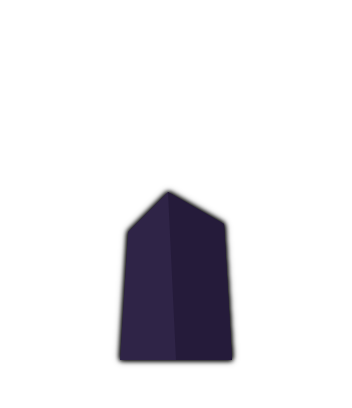
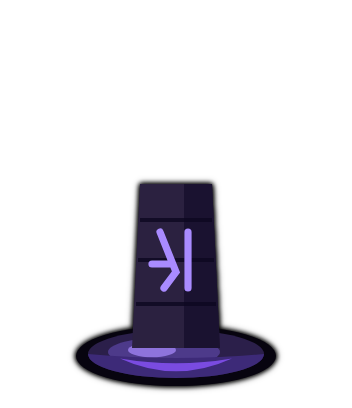
Schatten: Schattenturm, Seelenfresser-Silhouette, Phantom, Schattendrache (26w)
Claude-Session: https://claude.ai/code/session_012Nsno37nEjc4wateER8C5H

Changed region(s): [[0.1875, 0.4412, 0.8125, 0.9706]]

diff --git a/index.html b/index.html
@@ -222,7 +222,7 @@ const FIREBASE_CONFIG = {
   appId: "1:45840879921:web:f4f4f8bb60e49a091ae010"
 };
 const GAME_ID = "spiel1";   // anderer Name = eigenes, getrenntes Spiel
-const VERSION = "2026-10-26v";  // bei JEDER Änderung hochzählen: alte Handys merken so, dass sie neu laden müssen
+const VERSION = "2026-10-26w";  // bei JEDER Änderung hochzählen: alte Handys merken so, dass sie neu laden müssen
 
 /* =====================================================================
    SPIELDATEN – Regeln und Zahlen. Alles hier darf geändert werden.
@@ -347,11 +347,11 @@ const ELEMENTS = [
     ['Irrlicht',     'Licht',     // 30 statt 45 Gold (12.10.: Schatten nachts sonst zu schwach)
                           1.8, 1,   1, 0,   0,   0, 0, {light:2.2, buff:[1.3, 1.4, 1.5, 1.6, 1.7, 1.8], pierce:[0.3, 0.45, 0.6, 0.75, 0.9, 1]}],   // schießt nicht. Monster im Lichtkreis nehmen von Schatten-Türmen ×buff Schaden, pierce ihrer Rüstung zählt nicht (12.10. 14:07; seit 26.10. auf die Monster statt auf Türme im Kreis)
     ['Nachtauge',    'Reichweite',3.8, 0.6, 1, 1.01, 0.15, 5],
-    ['Fluchstein',   'Effekt',    2.5, 0.7, 3, 0.3, 0.3, 12, 0, {fly:false}],
+    ['Schattenturm',  'Effekt',    2.5, 0.7, 3, 0.3, 0.3, 12, 0, {fly:false}],
     ['Seelenfresser','Schaden',   2.0, 0.8, 2, 1.4, 0.1, 5],
     ['Phantom',      'Reichweite',3.2, 1.5, 4, 1.0, 0.2, 8],
     ['Leerenturm',   'Schaden',   3.0, 0.8, 3, 1.3, 0.25, 10],
-    ['Ewige Nacht',  'Effekt',    3.5, 0.5, 6, 0.4, 0.5, DAY] ]},
+    ['Schattendrache','Effekt',    3.5, 0.5, 6, 0.4, 0.5, DAY] ]},
   { name:'Stein', emo:'🪨', color:'#c2a878', note:'Fläche · wetterfest · kein Geländeaufschlag · Fliegende nur Turm 3, 6, 8', kraft:2.256, kraftBlock:[0.3, 0.6, 1, 1, 1, 1, 1, 1], kraftT:[1.58, 1.0, 1.3, 1.3, 1, 1, 1, 1], costOverride:{}, uniq:[0, 1, 3, 2, 4, 5, 6, 7], effect:'stun', armorDmg:1.5, noFly:true, lobSpeed:4.5, splashCenter:1.2, splashEdge:0.8, weatherproof:true, terrainFree:true, towers:[   // 17.10. (L): Katapult (Luft) ist Turm 3, Felsbrocken Turm 4; die Fähigkeiten bleiben beim Turm (uniq)
     ['Kiesel',       'Fläche',    2.0, 0.33,1, 0.55, 0,   0, 0.7],
     ['Schleuder',    'Fläche',    2.5, 0.33,2, 0.89, 0,   0, 0.9],
@@ -1895,14 +1895,14 @@ function drawTower(c, tw, px, py, cs, aim, glow, noBody){
 }
 const TIMG = {};   // 26.10. (F): freistehende Turm-Bilder der Schräg-Ansicht, assets/turm/<element>-<nr>.png (88×102-Raster, Fußpunkt bei y=92), Entwürfe/Quelle: team/GRAFIK.md
 const TOWER_NAME = ['feuer', 'eis', 'schatten', 'stein'];
-const TOWER_H = { feuer:[22,42,26,34,52,69.5,52,42], eis:[26,34.5,66.4,62,39.9,58.2,48,62], schatten:[26,44,39,44,26.6,49,48,60], stein:[48,30,58,62,22,70,33,88] };   // Höhe der Zeichnung über dem Fuß (Raster-Einheiten)
+const TOWER_H = { feuer:[22,42,26,34,52,69.5,52,42], eis:[26,34.5,66.4,62,39.9,58.2,48,62], schatten:[26,44,39,69.5,26.6,49,48,62], stein:[48,30,58,62,22,70,33,88] };   // Höhe der Zeichnung über dem Fuß (Raster-Einheiten)
 function loadImg(k){   // bei Ladefehler bis zu 3 Wiederholungen (Handy-Netz)
   if (k in TIMG) return TIMG[k] && TIMG[k].complete && TIMG[k].naturalWidth ? TIMG[k] : null;
   const im = new Image(); im.onerror = () => { TIMG[k] = null; loadImg.n[k] = (loadImg.n[k] || 0) + 1; if (loadImg.n[k] < 4) setTimeout(() => { delete TIMG[k]; loadImg(k); }, 1500*loadImg.n[k]); }; im.onload = () => { if (!view25 || typeof drawAll !== 'function') return; drawAll(); clearTimeout(towerImg.t); towerImg.t = setTimeout(() => { if (G && typeof render === 'function') render(); }, 80); }; im.src = 'assets/turm/' + k + '.png'; TIMG[k] = im; return null;
 }
 loadImg.n = {};
 // 26i (F): bewegliche Teile. Jeder Turm hat ein Grundbild (assets/turm/<element>-<nr>.png) und PARTN Teilbilder (…-<nr>p<id>.png, gleiches Raster), die einzeln um einen Drehpunkt bewegt werden
-const PARTN = { feuer:[1,1,2,2,2,2,1,1], eis:[1,1,1,1,1,1,1,2], schatten:[1,1,2,1,2,1,3,2], stein:[1,2,1,1,2,2,2,3] };
+const PARTN = { feuer:[1,1,2,2,2,2,1,1], eis:[1,1,1,1,1,1,1,2], schatten:[1,1,2,2,2,1,3,2], stein:[1,2,1,1,2,2,2,3] };
 function towerImg(el, idx){
   const nmE = TOWER_NAME[el], n = nmE + '-' + (idx + 1), b = loadImg(n), cnt = PARTN[nmE][idx], ps = [];
   let wait = false;
@@ -1937,11 +1937,12 @@ const PARTS = (() => {
     schatten0: [[0, -4, (t, g, w, dx) => ({ y: -1.5*S(t*2.5) - 2*w, sy: 1 + .03*S(t*2.5), x: dx*3*w })]],
     schatten1: [[0, -22, (t, g) => sc(1 + .1*S(t*3) + .1*g)]],
     schatten2: [[0, -30, (t) => ({ sy: S(t*.9) > .985 ? .15 : 1 })], [0, -30, (t, g, w, dx, dy) => ({ x: dx*3, y: dy*2, ...sc(1 + .2*g) })]],
-    schatten3: [[0, -20, (t, g) => ({ ...sc(1 + .06*S(t*4) + .15*g), a: Math.min(1, .75 + .25*S(t*4) + .25*g) })]],
+    schatten3: [[0, -48, (t, g) => ({ ...sc(1 + .03*S(t*4) + .08*g), a: Math.min(1, .8 + .2*S(t*4) + .2*g) })], [0, -62, (t, g) => ({ y: -2*S(t*2) - 3*g, a: Math.min(1, .6 + .4*S(t*3) + .4*g) })]],
     schatten4: [[-16, -4, (t, g, w) => ({ r: -.4*w })], [0, -4, (t, g, w) => ({ y: 3*w })]],
     schatten5: [[0, -4, (t, g, w) => ({ y: -2*S(t*2) - 4*w, sy: 1 + .04*S(t*2) + .1*w })]],
     schatten6: [[0, -34, (t, g) => sc(1 + .05*S(t*3) + .3*g)], [0, -34, (t, g) => sc(1 + .04*S(t*5) + .15*g)], [0, -34, (t, g) => sc(1 + .05*S(t*3) + .3*g)]],
-    schatten7: [[0, -40, (t) => ({ y: -1.5*S(t*1.5), r: .04*S(t) })], [0, -40, (t, g) => ({ r: t*.15, a: Math.min(1, .55 + .45*S(t*4) + .5*g) })]],
+    schatten7: [[6, -24, (t, g, w, dx, dy) => ({ r: Math.max(-.6, Math.min(.6, Math.atan2(dy, Math.abs(dx))))*.8 + .04*S(t*1.6) - .18*w })],
+            [-2, -27, (t, g, w) => ({ r: .1*S(t*2.4) - .4*w })]],
     stein0: [[.6, -45, (t) => ({ sx: 1 + .25*S(t*6), r: .05*S(t*4 + 1) })]],
     stein1: [[0, -30, (t, g) => ({ sy: 1 + .5*g })], [0, -22, (t, g) => ({ a: 1 - Math.min(1, g*1.6), y: 5*g })]],
     stein2: [[0, -34, (t, g, w) => ({ r: .85*w })]],
@@ -1957,13 +1958,13 @@ function drawFlame(c, mx, my, hx, hy, cs, now, a, ice){   // 26o (F): Flamme von
   const ang = Math.atan2(hy - my, hx - mx), len = Math.hypot(hx - mx, hy - my); if (len < 3) return;
   c.save(); c.globalAlpha = a; c.translate(mx, my); c.rotate(ang);
   const N = 16, wob = (t, ph) => Math.sin(t*9 - now*34 + ph) * (.03 + .1*t) * cs;
-  (ice ? [['#2f86b3', 1, 0], ['#79c6ee', .62, 1.7], ['#eaf8ff', .3, 3.1]] : [['#d8321a', 1, 0], ['#ff8a3d', .62, 1.7], ['#ffe08a', .3, 3.1]]).forEach(([col, wk, ph], j) => {
+  (ice === 'sch' ? [['#6a3fd0', 1, 0], ['#241540', .72, 1.7], ['#07040f', .42, 3.1]] : ice ? [['#2f86b3', 1, 0], ['#79c6ee', .62, 1.7], ['#eaf8ff', .3, 3.1]] : [['#d8321a', 1, 0], ['#ff8a3d', .62, 1.7], ['#ffe08a', .3, 3.1]]).forEach(([col, wk, ph], j) => {
     const L = len * (j === 2 ? .8 : 1), top = [], bot = [];
     for (let k = 0; k <= N; k++) { const t = k / N, w = cs * (.05 + .17*Math.pow(t, .75)) * wk * (1 + .12*Math.sin(now*40 + k*1.3 + j)) * (k === N ? .25 : 1), y0 = wob(t, ph);
       top.push([t*L, y0 - w]); bot.push([t*L, y0 + w]); }
     c.fillStyle = col; c.beginPath(); c.moveTo(top[0][0], top[0][1]); top.forEach(q => c.lineTo(q[0], q[1])); for (let k = N; k >= 0; k--) c.lineTo(bot[k][0], bot[k][1]); c.closePath(); c.fill(); });
-  for (let k = 0; k < 7; k++) { const t = ((now*2.6 + k/7) % 1), y0 = wob(t, 1) + Math.sin(k*5.1) * cs*.12*t; c.fillStyle = ice ? (k % 2 ? '#ffffff' : '#bfeaff') : (k % 2 ? '#ffe08a' : '#ff8a3d'); c.beginPath(); c.arc(t*len, y0, cs*(.035 + .02*Math.sin(k*3 + now*20)), 0, 7); c.fill(); }
-  const gr = c.createRadialGradient(len, 0, 0, len, 0, cs*.42); if (ice) { gr.addColorStop(0, '#ffffffee'); gr.addColorStop(.45, '#79c6ee99'); gr.addColorStop(1, '#79c6ee00'); } else { gr.addColorStop(0, '#ffe08af0'); gr.addColorStop(.45, '#ff8a3d99'); gr.addColorStop(1, '#ff8a3d00'); }
+  for (let k = 0; k < 7; k++) { const t = ((now*2.6 + k/7) % 1), y0 = wob(t, 1) + Math.sin(k*5.1) * cs*.12*t; c.fillStyle = ice === 'sch' ? (k % 2 ? '#e9dcff' : '#a35bff') : ice ? (k % 2 ? '#ffffff' : '#bfeaff') : (k % 2 ? '#ffe08a' : '#ff8a3d'); c.beginPath(); c.arc(t*len, y0, cs*(.035 + .02*Math.sin(k*3 + now*20)), 0, 7); c.fill(); }
+  const gr = c.createRadialGradient(len, 0, 0, len, 0, cs*.42); if (ice === 'sch') { gr.addColorStop(0, '#07040fee'); gr.addColorStop(.45, '#7a4be0aa'); gr.addColorStop(1, '#7a4be000'); } else if (ice) { gr.addColorStop(0, '#ffffffee'); gr.addColorStop(.45, '#79c6ee99'); gr.addColorStop(1, '#79c6ee00'); } else { gr.addColorStop(0, '#ffe08af0'); gr.addColorStop(.45, '#ff8a3d99'); gr.addColorStop(1, '#ff8a3d00'); }
   c.fillStyle = gr; c.beginPath(); c.arc(len, 0, cs*(.38 + .05*Math.sin(now*45)), 0, 7); c.fill();
   c.restore();
 }
@@ -1988,7 +1989,7 @@ function drawTower25(c, tw, x, y, cs, aim, glow){
     else if (nm === 'schatten0' || nm === 'schatten5') { sx = sy = 1; ox = oy = 0; }   // Schemen/Phantom: bewegt sich als Teilbild
     else if (nm === 'schatten1') { ox = 0; oy = Math.sin(now*3 + tw.x) * cs*.05 - cs*.05; sx = sy = 1; }   // Irrlicht schwebt
     else if (nm === 'feuer2' || nm === 'feuer3') { ox = -dx*cs*.07*g; }
-    const flip = (nm === 'feuer1' && Math.cos(aim) > 0) || (nm === 'feuer2' && Math.cos(aim) < 0) || (nm === 'feuer3' && Math.cos(aim) < 0) || (nm === 'feuer4' && Math.cos(aim) > 0) || ((nm === 'eis3' || nm === 'eis7') && Math.cos(aim) < 0);   // Glumanda blickt nach links, Flammenwerfer-Mündung nach rechts   // Glumanda blickt nach links und dreht sich zum Ziel: Schuss kommt aus dem Maul
+    const flip = (nm === 'feuer1' && Math.cos(aim) > 0) || (nm === 'feuer2' && Math.cos(aim) < 0) || (nm === 'feuer3' && Math.cos(aim) < 0) || (nm === 'feuer4' && Math.cos(aim) > 0) || ((nm === 'eis3' || nm === 'eis7' || nm === 'schatten7') && Math.cos(aim) < 0);   // Glumanda blickt nach links, Flammenwerfer-Mündung nach rechts   // Glumanda blickt nach links und dreht sich zum Ziel: Schuss kommt aus dem Maul
     c.save(); c.translate(fx + ox, fy + oy); c.rotate(rotA); c.scale(flip ? -sx : sx, sy);
     c.drawImage(sp, -44*u, -92*u, 88*u, 102*u);
     const gp = Math.max(0, 1 - (now - (FIRE_T[key] === undefined ? -9 : FIRE_T[key])) / .5), wp = gp > 0 ? Math.sin(Math.PI * (1 - gp)) : 0, pd = PARTS[nm];   // bewegliche Teile
@@ -2000,8 +2001,8 @@ function drawTower25(c, tw, x, y, cs, aim, glow){
       c.drawImage(sp.parts[i], -44*u - px, -92*u - py, 88*u, 102*u); c.restore();
     }
     c.restore();
-    if (nm === 'feuer2' || nm === 'eis7') { const j = JETS[tw.el + ':' + (tw.x + .5) + ',' + (tw.y + .5)], mxo = nm === 'eis7' ? 27 : 17, myo = nm === 'eis7' ? 42 : 12;   // Flamme / Eisfeuer: von der Mündung zum Ziel, solange der Turm schießt
-      if (j && j.t <= now + .05 && now - j.t < .28) drawFlame(c, fx + (Math.cos(aim) > 0 ? 1 : -1)*mxo*u, fy - myo*u, j.tx*cs, gyOf(j.ty, cs) - cs*.25, cs, now, Math.min(1, (.28 - (now - j.t)) / .12), nm === 'eis7'); }
+    if (nm === 'feuer2' || nm === 'eis7' || nm === 'schatten7') { const j = JETS[tw.el + ':' + (tw.x + .5) + ',' + (tw.y + .5)], mxo = nm === 'feuer2' ? 17 : 27, myo = nm === 'feuer2' ? 12 : 42;   // Flamme / Eisfeuer: von der Mündung zum Ziel, solange der Turm schießt
+      if (j && j.t <= now + .05 && now - j.t < .28) drawFlame(c, fx + (Math.cos(aim) > 0 ? 1 : -1)*mxo*u, fy - myo*u, j.tx*cs, gyOf(j.ty, cs) - cs*.25, cs, now, Math.min(1, (.28 - (now - j.t)) / .12), nm === 'eis7' ? true : nm === 'schatten7' ? 'sch' : false); }
     if (g > 0 && glow !== undefined) {                                              // Mündungseffekt in Elementfarbe (am Turm, in Zielrichtung)
       const mx = fx + dx*cs*.32, my = fy - hh*.55 + dy*cs*.2, col = ELEMENTS[tw.el].color;
       const fl = (r, cc) => { const gr = c.createRadialGradient(mx, my, 0, mx, my, r); gr.addColorStop(0, cc + 'dd'); gr.addColorStop(1, cc + '00'); c.fillStyle = gr; c.beginPath(); c.arc(mx, my, r, 0, 7); c.fill(); };
@@ -2119,9 +2120,12 @@ function shot25(c, p, x, y, a, cs, time){
     if (i === 2) { tail(q*10, '#a98bffaa', q*1.4); ball(q*2.2, '#f0e6ff', '#ffffff', '#a98bff'); return true; }
     if (i === 3) { c.save(); c.translate(x, y); c.rotate(w*.2); c.fillStyle = '#2f2447'; c.fillRect(-q*2.4, -q*2.4, q*4.8, q*4.8); c.strokeStyle = '#a98bff'; c.lineWidth = q*.9; c.beginPath(); c.moveTo(-q*1, -q*1.6); c.lineTo(q*.6, 0); c.lineTo(-q*1, 1.6*q); c.stroke(); c.restore(); return true; }
     if (i === 4) { ball(q*2.8, '#2a2a16', '#9be36b', '#7ad94a'); c.fillStyle = '#f0e6ff'; c.fillRect(x - q*1.4, y - q*.5, q*.9, q*1); c.fillRect(x + q*.5, y - q*.5, q*.9, q*1); return true; }
-    if (i === 5) { c.globalAlpha = .85; ball(q*3, '#cdbfff', '#ffffff', '#a98bff'); c.globalAlpha = 1; tail(q*7, '#cdbfff55', q*3.4); return true; }
+    if (i === 5) { c.save(); c.translate(x, y); c.rotate(Math.cos(a) < 0 ? a + Math.PI : a); if (Math.cos(a) < 0) c.scale(1, -1);   // kleines schwarzes Phantom mit wehendem Schweif
+      c.fillStyle = '#7a4be055'; c.beginPath(); c.arc(0, 0, q*4.2, 0, 7); c.fill();
+      c.fillStyle = '#0d0820'; c.strokeStyle = '#a98bff'; c.lineWidth = q*.6; c.beginPath(); c.moveTo(q*3.4, 0); c.quadraticCurveTo(q*3.4, -q*3.2, 0, -q*3.2); c.quadraticCurveTo(-q*2, -q*3, -q*3.6, -q*1.2 + Math.sin(w)*q*.8); c.quadraticCurveTo(-q*5.2, q*.6, -q*7.2, q*1.6 + Math.sin(w + 1)*q*1.2); c.quadraticCurveTo(-q*4.2, q*1.8, -q*3.2, q*2.6); c.quadraticCurveTo(-q*1.6, q*3.4, 0, q*2.6); c.quadraticCurveTo(q*3.4, q*3.2, q*3.4, 0); c.closePath(); c.fill(); c.stroke();
+      c.fillStyle = '#f0e6ff'; c.beginPath(); c.arc(q*1.4, -q*.9, q*.8, 0, 7); c.arc(-q*.6, -q*.9, q*.8, 0, 7); c.fill(); c.restore(); return true; }
     if (i === 6) { c.strokeStyle = '#a98bff'; c.lineWidth = q*1; c.beginPath(); c.ellipse(x, y, q*4.6, q*1.6, a, 0, 7); c.stroke(); ball(q*3, '#07040f', null, '#7a4be0'); return true; }
-    if (i === 7) { c.fillStyle = '#f0e6ff'; c.beginPath(); c.arc(x, y, q*3, 0, 7); c.fill(); c.fillStyle = '#2b1f4a'; c.beginPath(); c.arc(x + q*1.4, y - q*.8, q*2.6, 0, 7); c.fill(); return true; }
+    if (i === 7) { ball(q*2, '#07040f', '#a98bff', '#7a4be0'); return true; }   // Schwarzes Feuer zeichnet der Turm
     tail(q*6, '#5b4a8666', q*3); ball(q*2.4, '#1a1230', '#a98bff', '#7a4be0'); return true;
   }
   const rock = (r, c1, c2, rr) => { c.save(); c.translate(x, y); c.rotate(rr); c.fillStyle = c1; c.beginPath(); c.moveTo(r, 0); c.lineTo(r*.4, -r*.9); c.lineTo(-r*.6, -r*.8); c.lineTo(-r, r*.1); c.lineTo(-r*.3, r*.9); c.lineTo(r*.7, r*.7); c.closePath(); c.fill(); c.fillStyle = c2; c.beginPath(); c.moveTo(r*.4, -r*.9); c.lineTo(-r*.6, -r*.8); c.lineTo(-r*.2, -r*.1); c.closePath(); c.fill(); c.restore(); };
@@ -2155,6 +2159,7 @@ function drawShot(c, p, cs, time){
   }
   y -= h + (CUR.k < 1 && !p.lob ? cs*.25 : 0);
   if (CUR.k < 1 && p.el === 0 && p.idx === 2) JETS['0:' + p.x0 + ',' + p.y0] = { tx:p.tx, ty:p.ty, t:time };   // Flammenwerfer: Ziel merken, die Flamme zeichnet der Turm
+  if (CUR.k < 1 && p.el === 2 && p.idx === 7) JETS['2:' + p.x0 + ',' + p.y0] = { tx:p.tx, ty:p.ty, t:time };   // Schattendrache: schwarzes Feuer
   if (CUR.k < 1 && p.el === 1 && p.idx === 7) JETS['1:' + p.x0 + ',' + p.y0] = { tx:p.tx, ty:p.ty, t:time };   // Eisdrache: Ziel merken, der Turm zeichnet den Eisatem
   if (CUR.k < 1 && p.el === 1 && p.idx === 3) { const f = Math.max(0, 1 - (1 - left / tot) * 5), H = TOWER_H.eis[3], uu = cs * Math.min(1.5, Math.max(.5, H * (1 + 3 * .03) / 44)) / H; x += (Math.cos(dir) > 0 ? 1 : -1) * 19 * uu * f; y -= 0; }   // Schneekönig: Speer startet in der Hand
   if (CUR.k < 1 && p.el === 1 && p.idx === 6) drawSnowCloud(c, p.tx*cs, gyOf(p.ty, cs), cs, Math.min(1, (1 - left / tot) * 4 + .3), time, p.x0 + p.y0);   // Blizzard: Wolke über dem Ziel
@@ -2168,6 +2173,12 @@ function drawShot(c, p, cs, time){
       ang25 = Math.atan2((p.ty - p.y0) * cs * CUR.k - Math.PI * Math.cos(Math.PI * prog) * Hpx, (p.tx - p.x0) * cs); }
   }
   const def = p.def, sz = k * (p.lob ? .42 : .3);
+  if (CUR.k < 1 && p.el === 2 && p.idx === 4) {   // Seelenfresser: durchsichtige Silhouette des Monsters löst sich vom Ziel und fliegt zum Turm
+    const pr = Math.min(1, Math.max(0, 1 - left / tot)), gx = p.tx*cs, gy = gyOf(p.ty, cs) - cs*.25, hx = p.x0*cs, hy = gyOf(p.y0, cs) - cs*.55;
+    const sx = gx + (hx - gx)*pr, sy = gy + (hy - gy)*pr - Math.sin(Math.PI*pr)*cs*.25, emo = p.tgt && p.tgt.def && p.tgt.def.emo || '👻', r = cs*.34*(1 - .45*pr);
+    c.save(); c.strokeStyle = '#cdbfff'; c.globalAlpha = .35*(1 - pr); c.lineWidth = cs*.04; c.beginPath(); c.moveTo(gx, gy); c.quadraticCurveTo((gx + sx)/2, Math.min(gy, sy) - cs*.15, sx, sy); c.stroke();
+    c.globalAlpha = .5*(1 - .6*pr); c.shadowColor = '#a98bff'; c.shadowBlur = cs*.35; c.filter = 'grayscale(1) brightness(1.7) contrast(.8)'; c.font = r*1.9 + 'px serif'; c.textAlign = 'center'; c.textBaseline = 'middle'; c.fillText(emo, sx + Math.sin(time*12)*cs*.02, sy);
+    c.restore(); return; }
   if (CUR.k < 1 && shot25(c, p, x, y, ang25, cs, time)) return;   // 2,5D: Geschoss passt zum Turm-Bild
   if (p.el === 0 && def.air) {               // Brandpfeil: Pfeil mit Glut
     c.save(); c.translate(x, y); c.rotate(dir); c.strokeStyle = '#f3d9a4'; c.lineWidth = 2; c.beginPath(); c.moveTo(-k*.22, 0); c.lineTo(k*.12, 0); c.stroke();

diff --git a/tools/turm/tuerme.html b/tools/turm/tuerme.html
@@ -62,11 +62,11 @@ s:[
 ['Schemen','Schaden','kapuzenartiger Schatten',22,46,()=>`<g data-p="0"><path d="M-11 -2 Q-13 -22 0 -26 Q13 -22 11 -2 Q6 -6 0 -2 Q-6 -6 -11 -2Z" fill="#150f26"/><ellipse cx="-4" cy="-14" rx="2.4" ry="3" fill="#e9dcff"/><ellipse cx="4" cy="-14" rx="2.4" ry="3" fill="#e9dcff"/></g>`],
 ['Irrlicht','Licht','schwebende Lichtkugel',28,44,()=>`<g data-p="0"><circle cx="0" cy="-22" r="22" fill="#fff4c0" opacity=".2"/><circle cx="0" cy="-22" r="14" fill="#fff4c0" opacity=".3"/><circle cx="0" cy="-22" r="7" fill="#fffbe0"/></g><path d="M-4 -2 q-2 -8 4 -10 M4 -2 q2 -6 -3 -9" stroke="#a98bff" stroke-width="2" fill="none"/>`],
 ['Nachtauge','Reichweite','Auge auf Säule',36,48,()=>`<rect x="-5" y="-16" width="10" height="14" fill="#2a1f45"/><g data-p="0"><path d="M-20 -30 Q0 -48 20 -30 Q0 -14 -20 -30Z" fill="#f0e6ff"/></g><g data-p="1"><circle cx="0" cy="-30" r="8" fill="#7a4be0"/><circle cx="0" cy="-30" r="3.6" fill="#0d0820"/><circle cx="2" cy="-32" r="1.4" fill="#fff"/></g>`],
-['Fluchstein','Effekt','Runenstein',40,52,()=>`<path d="M-14 -2 L-12 -34 L-2 -44 L12 -36 L14 -2Z" fill="#2f2447"/><path d="M-2 -44 L12 -36 L14 -2 L0 -2Z" fill="#251b3a"/><g data-p="0"><path d="M-6 -30 L0 -20 L-4 -10 M3 -32 L3 -12 M-8 -18 L-2 -18" stroke="#a98bff" stroke-width="2.4" fill="none" stroke-linecap="round"/></g>`],
+['Fluchstein','Effekt','dunkler Turm in einem Schattensee, Zinnen aus violettem Schattenlicht',56,56,()=>`<ellipse cx="0" cy="-3" rx="25" ry="7.5" fill="#07040f"/><ellipse cx="0" cy="-3.5" rx="22" ry="6" fill="#2b1f4a"/><ellipse cx="-3" cy="-4" rx="14" ry="3.6" fill="#4d3a8a"/><ellipse cx="-6" cy="-4.5" rx="6" ry="1.8" fill="#a98bff" opacity=".7"/><path d="M-11 -5 L-9 -46 L9 -46 L11 -5Z" fill="#2b2140"/><path d="M2 -46 L9 -46 L11 -5 L2 -5Z" fill="#1a1230"/><path d="M-10 -16 L10 -16 M-9.5 -27 L9.5 -27 M-9 -37 L9 -37" stroke="#0d0820" stroke-width="1" opacity=".8"/><path d="M-4 -34 L0 -24 L-3 -20 M3 -34 L3 -20 M-6 -26 L-1 -26" stroke="#a98bff" stroke-width="1.8" fill="none" stroke-linecap="round"/><path d="M-22 -3.5 A22 6 0 0 0 22 -3.5 Q0 -1.5 -22 -3.5Z" fill="#3d2a78"/><path d="M-14 -2.4 Q0 4 14 -2.4 Q0 0 -14 -2.4Z" fill="#7a4be0"/><g data-p="0"><rect x="-15" y="-48" width="30" height="4" fill="#150e2b"/><path d="M-15 -48 L-15 -58 L-9 -58 L-9 -53 L-3 -53 L-3 -58 L3 -58 L3 -53 L9 -53 L9 -58 L15 -58 L15 -48Z" fill="#3d2a78"/><path d="M-15 -48 L-15 -58 L-9 -58 L-9 -53 L-3 -53 L-3 -58 L3 -58 L3 -53 L9 -53 L9 -58 L15 -58 L15 -48Z" fill="none" stroke="#a98bff" stroke-width="1.4" stroke-linejoin="round"/><path d="M-13 -50 L-11 -50 M-1 -50 L1 -50 M11 -50 L13 -50 M-13 -56 L-11 -56 M-1 -56 L1 -56 M11 -56 L13 -56" stroke="#e9dcff" stroke-width="2" stroke-linecap="round"/><path d="M-8 -44 Q-9 -40 -7.5 -36" stroke="#7a4be0" stroke-width="2.6" fill="none" stroke-linecap="round"/><path d="M6 -44 Q7 -41 6 -38" stroke="#a98bff" stroke-width="2.2" fill="none" stroke-linecap="round"/></g><g data-p="1"><circle cx="-4" cy="-64" r="1.8" fill="#a98bff"/><circle cx="5" cy="-68" r="1.5" fill="#7a4be0"/><circle cx="1" cy="-61" r="1.2" fill="#e9dcff"/></g>`],
 ['Seelenfresser','Schaden','Maul mit Zähnen',46,56,()=>`<ellipse cx="0" cy="-4" rx="20" ry="8" fill="#150f26"/><g data-p="0"><path d="M-18 -4 Q0 -34 18 -4Z" fill="#251b3a"/><circle cx="-7" cy="-24" r="2.6" fill="#a98bff"/><circle cx="7" cy="-24" r="2.6" fill="#a98bff"/></g><g data-p="1"><path d="M-14 -4 L-11 -14 L-8 -4 M-6 -4 L-3 -16 L0 -4 M2 -4 L5 -16 L8 -4 M10 -4 L13 -14 L16 -4" fill="#f0e6ff"/></g>`],
 ['Phantom','Reichweite','hoher Geist',58,48,()=>`<g data-p="0"><path d="M-12 -2 Q-18 -30 -6 -46 Q0 -52 6 -46 Q18 -30 12 -2 Q8 -8 4 -2 Q0 -8 -4 -2 Q-8 -8 -12 -2Z" fill="#cdbfff" opacity=".85"/><ellipse cx="-4" cy="-34" rx="2.4" ry="4" fill="#1a1230"/><ellipse cx="4" cy="-34" rx="2.4" ry="4" fill="#1a1230"/><ellipse cx="0" cy="-24" rx="3" ry="4.5" fill="#1a1230"/></g>`],
 ['Leerenturm','Schaden','schwarze Kugel mit Ring',64,58,()=>`<rect x="-3" y="-20" width="6" height="18" fill="#2a1f45"/><g data-p="0"><ellipse cx="0" cy="-34" rx="26" ry="8" fill="none" stroke="#a98bff" stroke-width="3" opacity=".8"/></g><g data-p="1"><circle cx="0" cy="-34" r="14" fill="#07040f"/><circle cx="0" cy="-34" r="14" fill="none" stroke="#7a4be0" stroke-width="2"/></g><g data-p="2"><path d="M-26 -34 A26 8 0 0 0 26 -34" fill="none" stroke="#a98bff" stroke-width="3"/></g>`],
-['Ewige Nacht','Effekt','Mondsichel und Sterne',70,60,()=>`<rect x="-3" y="-18" width="6" height="16" fill="#2a1f45"/><g data-p="0"><circle cx="0" cy="-40" r="16" fill="#f0e6ff"/><circle cx="7" cy="-44" r="14" fill="#2b1f4a"/></g><g data-p="1"><g fill="#fff"><circle cx="-18" cy="-54" r="1.8"/><circle cx="16" cy="-26" r="1.6"/><circle cx="-20" cy="-30" r="1.4"/><circle cx="14" cy="-58" r="2"/></g></g>`]],
+['Ewige Nacht','Effekt','Schattendrache mit Reißzähnen und glühenden Augen, speit schwarzes Feuer',62,52,()=>`<ellipse cx="0" cy="-2" rx="22" ry="6" fill="#07040f" opacity=".6"/><ellipse cx="0" cy="-3" rx="18" ry="4.5" fill="#3d2a78" opacity=".55"/><path d="M-19 -2 L-16 -8 L-8 -6 L0 -10 L9 -6 L18 -8 L20 -2Z" fill="#3d2a78"/><path d="M-10 -14 Q-20 -12 -20 -5 Q-17 -3 -15 -6 Q-13 -9 -8 -9Z" fill="#241540"/><path d="M-20 -5 L-27 -11 L-23 -3 L-18 -2Z" fill="#c9b6ff"/><rect x="-9" y="-10" width="6" height="8" rx="2" fill="#1f1538"/><rect x="3" y="-10" width="6" height="8" rx="2" fill="#1f1538"/><path d="M-9 -2 L-8.5 1.5 L-6.5 -2 M-6 -2 L-5.5 1.5 L-3.5 -2 M3 -2 L3.5 1.5 L5.5 -2 M6 -2 L6.5 1.5 L8.5 -2" fill="#f0e6ff"/><path d="M-12 -14 Q-14 -28 -2 -31 Q10 -32 13 -22 Q15 -13 8 -10 Q-4 -8 -12 -14Z" fill="#2b1f4a"/><path d="M-6 -12 Q2 -8 10 -13 Q12 -18 6 -16 Q-2 -14 -6 -12Z" fill="#4d3a8a"/><path d="M-4 -13 L-4 -10 M0 -13 L0 -9.5 M4 -13 L4 -10" stroke="#2b1f4a" stroke-width="1"/><path d="M-10 -25 L-13 -34 L-6 -29 L-5 -38 L0 -31 L2 -40 L5 -31 L10 -35 L9 -26Z" fill="#c9b6ff"/><g data-p="1"><path d="M-2 -27 L-8 -55 L-14 -46 L-18 -57 L-21 -43 L-26 -48 L-23 -33 L-13 -30Z" fill="#150e2b"/><path d="M-2 -27 L-8 -55 M-2 -27 L-18 -57 M-2 -27 L-26 -48" stroke="#a98bff" stroke-width="1.4" fill="none" stroke-linecap="round"/></g><g data-p="0"><path d="M5 -24 Q10 -34 10 -42" stroke="#2b1f4a" stroke-width="8" fill="none" stroke-linecap="round"/><path d="M4 -27 L1 -31 L6 -30 M6 -33 L3 -38 L8 -36 M8 -39 L5 -44 L10 -42Z" fill="#c9b6ff"/><path d="M4 -48 L10 -54 L22 -50 L28 -45 L24 -42 L26 -40 L22 -38 L14 -38 L10 -36 L4 -40Z" fill="#3d2a78"/><path d="M11 -38 Q18 -34 26 -39 L22 -38 Q17 -37 14 -38Z" fill="#0d0820"/><path d="M16 -40 L17 -36 L18.5 -40 M20 -40 L21 -36.5 L22.5 -40 M24 -41 L24.6 -38 L26 -41" fill="#f0e6ff"/><path d="M9 -48 L17 -46 L14.5 -43.6 L9 -45Z" fill="#ff6ae0"/><path d="M8 -50.5 L19 -46" stroke="#07040f" stroke-width="2"/><path d="M8 -52 Q2 -58 -4 -56 Q2 -54 6 -49Z M13 -53 Q10 -61 3 -62 Q9 -57 11 -51Z" fill="#a98bff"/></g>`]],
 st:[
 ['Kiesel','Fläche','kleiner Wachturm wie von einer Ritterburg',34,46,()=>`<ellipse cx="0" cy="-2" rx="16" ry="4.5" fill="#4d453a"/><path d="M-11 -2 L-11 -30 L11 -30 L11 -2Z" fill="#a89c84"/><path d="M3 -30 L11 -30 L11 -2 L3 -2Z" fill="#8a7e68"/><path d="M-11 -30 L-11 -36 L-7 -36 L-7 -33 L-3 -33 L-3 -36 L1 -36 L1 -33 L5 -33 L5 -36 L11 -36 L11 -30Z" fill="#b9ad94"/><path d="M-4 -2 L-4 -12 Q0 -17 4 -12 L4 -2Z" fill="#4a3220"/><rect x="-1.5" y="-24" width="3" height="7" rx="1" fill="#2a2218"/><path d="M-7 -12 h14 M-11 -20 h22 M-11 -26 h22" stroke="#7d725e" stroke-width=".8"/><g data-p="0"><rect x="-.6" y="-48" width="1.2" height="12" fill="#6b4a2c"/><path d="M.6 -48 L9 -45 L.6 -42Z" fill="#c33"/></g>`],
 ['Schleuder','Fläche','Astgabel mit Steinschleuder',26,50,()=>`<path d="M0 -2 L0 -14 M0 -14 L-9 -30 M0 -14 L9 -30" stroke="#6b4a2c" stroke-width="4" fill="none" stroke-linecap="round"/><g data-p="0"><path d="M-9 -30 Q0 -20 9 -30" stroke="#d9cba6" stroke-width="2" fill="none"/></g><g data-p="1"><circle cx="0" cy="-22" r="4.5" fill="#a89c84"/></g>`],

diff --git a/team/UPDATES.md b/team/UPDATES.md
@@ -1,6 +1,10 @@
 # Updates (neueste oben, höchstens 15 Einträge)
 
 <!-- So geht ein neuer Eintrag: direkt UNTER der Zeile „NEUE EINTRÄGE HIER“ einfügen (nie über ihr, nie in diesen Kopf).
+
+### 26.10. 19:30 · F · 2026-10-26w – Schatten: Schattenturm, Seelenfresser-Silhouette, Phantom, Schattendrache
+- Fluchstein heißt jetzt Schattenturm (dunkler Turm im Schattensee, wie der Lavaturm); Ewige Nacht heißt Schattendrache und speit schwarzes Feuer. Namen nur in der Anzeige.
+- Seelenfresser: durchsichtige Silhouette des Monsters fliegt vom Ziel zum Turm. Phantom schießt ein kleines schwarzes Phantom.
 Überschrift: drei Rauten, Datum Uhrzeit · L oder F · VERSION – Titel; darunter höchstens 5 Zeilen: was, warum, worauf achten.
 Mehr als 15 Einträge → die ältesten oben in team/archiv/updates-archiv.md einfügen. -->
 <!-- NEUE EINTRÄGE HIER -->
@@ -46,5 +50,3 @@ Fehlende Symbole auf dem iPhone gemeldet. Bilder, die nicht laden, werden bis zu
 ### 26.10. 13:30 · F · 2026-10-26i – Türme mit beweglichen Teilen (Schräg-Ansicht)
 Alle 32 Türme sind in Grundbild + Teilbilder zerlegt (`assets/turm/<element>-<nr>p<id>.png`, 79 Dateien). `PARTS` in index.html: Drehpunkt + Bewegung je Teil (Leerlauf-Wackeln, beim Schuss Ausschlag): z. B. Katapult-Arm schwingt, Bergkönig hebt beide Arme, Granitwächter stößt mit dem Speer, Seelenfresser klappt das Maul, Sonne dreht sich, Schleuder-Stein fliegt weg. Nur Anzeige. Neu laden.
 
-### 26.10. 13:00 · F · 2026-10-26h – Angriffe der Türme passend zu den Bildern (Schräg-Ansicht)
-Geschosse je Turm eigene Optik (`shot25`: Funke, Feuerball, Flammenstrahl, Eissplitter, Schneeflocke, Speer, Seelen-Orb, Runenstein, Felsbrocken, Onyx-Splitter u. a.), Türme reagieren beim Schuss (`drawTower25`): Rückstoß, Speerstoß beim Granitwächter, Aufstampfen beim Bergkönig, Kippen beim Katapult, Flamme beim Flammenwerfer, Lavafunken beim Lavaturm, Irrlicht schwebt. Nur Anzeige, nur Schräg-Ansicht.

diff --git a/team/archiv/updates-archiv.md b/team/archiv/updates-archiv.md
@@ -1,5 +1,7 @@
 # Archiv: ältere Updates (neueste oben)
 
+### 26.10. 13:00 · F · 2026-10-26h – Angriffe der Türme passend zu den Bildern (Schräg-Ansicht)
+Geschosse je Turm eigene Optik (`shot25`: Funke, Feuerball, Flammenstrahl, Eissplitter, Schneeflocke, Speer, Seelen-Orb, Runenstein, Felsbrocken, Onyx-Splitter u. a.), Türme reagieren beim Schuss (`drawTower25`): Rückstoß, Speerstoß beim Granitwächter, Aufstampfen beim Bergkönig, Kippen beim Katapult, Flamme beim Flammenwerfer, Lavafunken beim Lavaturm, Irrlicht schwebt. Nur Anzeige, nur Schräg-Ansicht.
 
 ### 26.10. 12:30 · F · 2026-10-26g – Richtige Bäume, Bauleiste für alle Elemente
 Wald: Tannen mit Stamm, Sumpf: Trauerweiden (`drawTree`, beide Ansichten) statt runder Kronen, die wie Büsche aussahen. Turm-Bilder werden beim Start vorgeladen, damit die Bauleiste bei jedem Element (nicht nur Feuer) die neuen Symbole zeigt.
